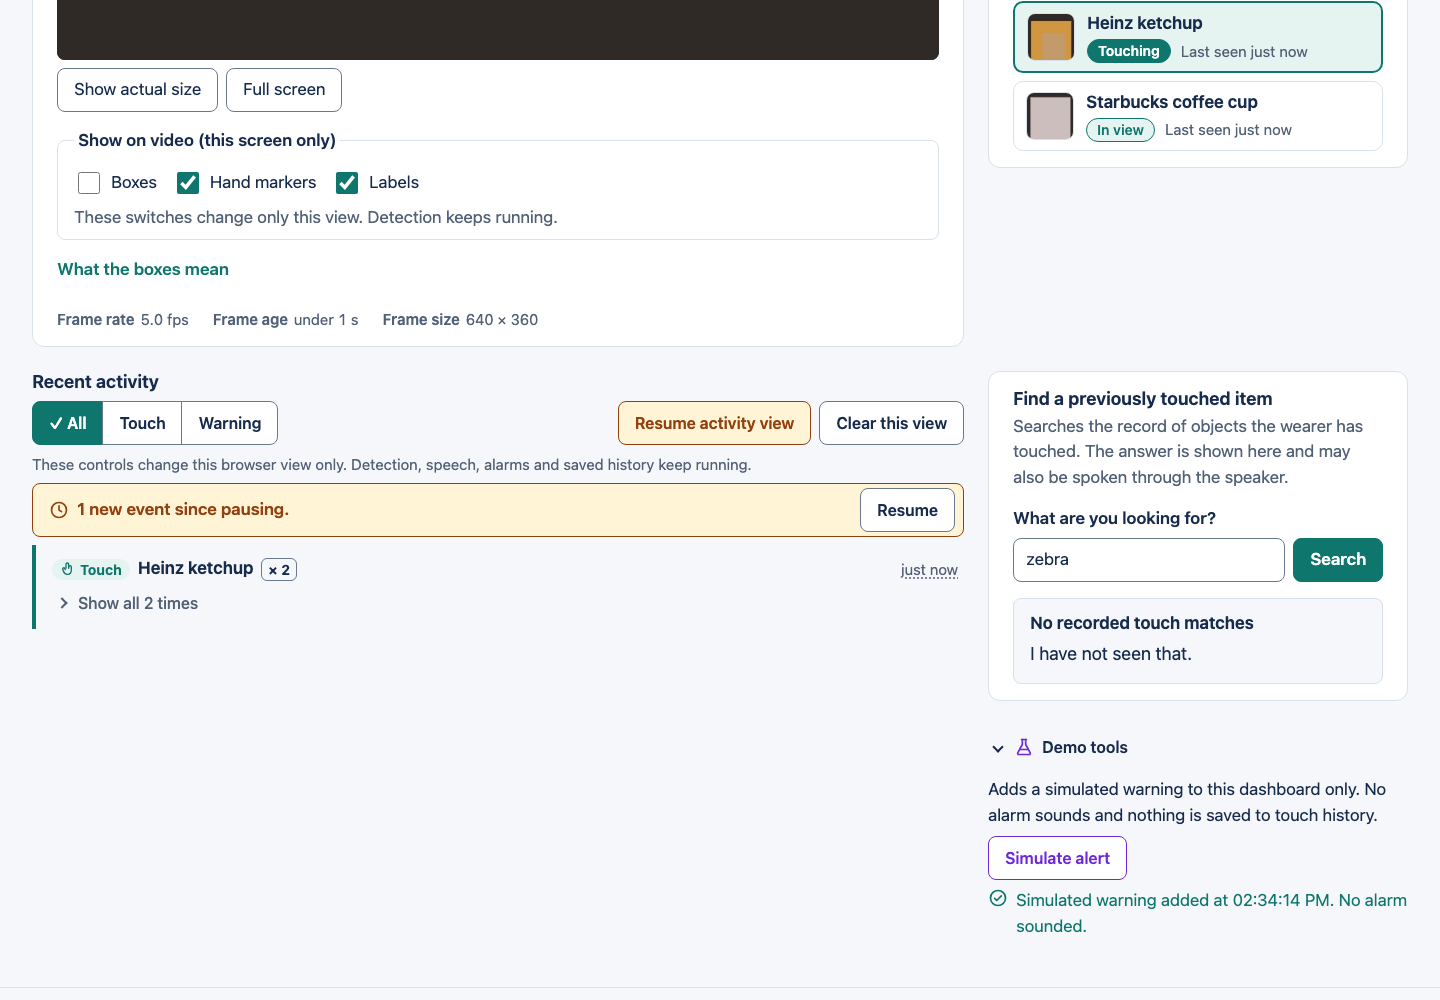
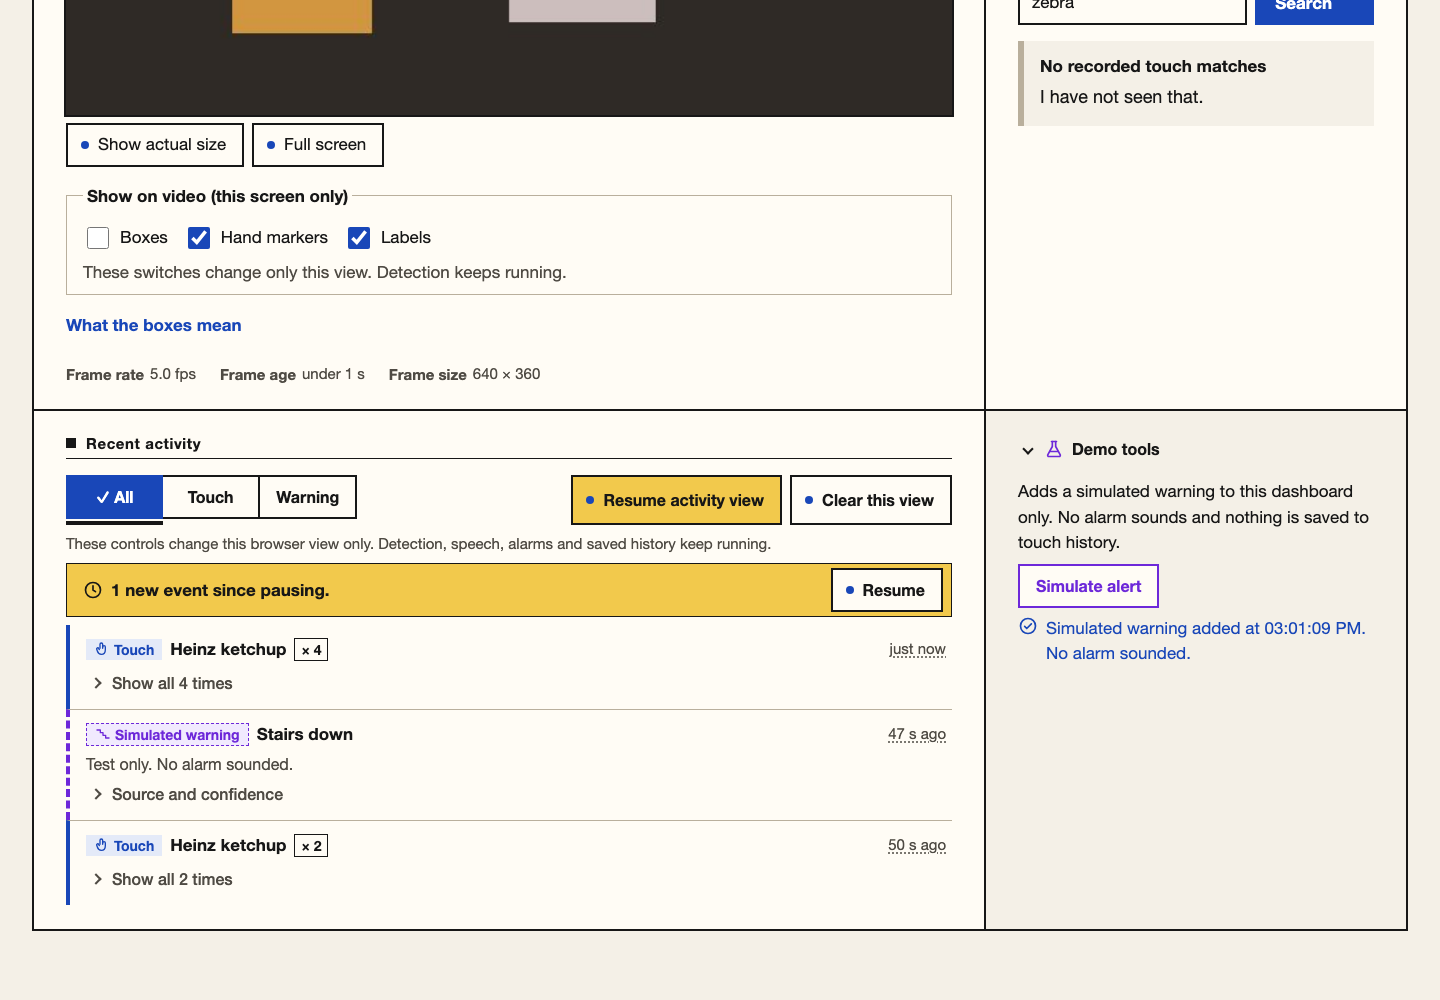
Document the Bauhaus redesign: directions, passes, inventory, prompts, verification

diff --git a/docs/dashboard-redesign/bauhaus/explorations/b-instrument.css b/docs/dashboard-redesign/bauhaus/explorations/b-instrument.css
@@ -1,0 +1,22 @@
+/* Exploration B: instrument panel with strong rails and dividers.
+   A black top rail holds identity and system status; zones are separated by
+   2px black rules instead of floating cards; each module has a ruled label bar. */
+.app-header { background: #171717; color: #FFFCF5; border-bottom: 0; }
+.app-header .app-header__explainer { color: #D9D2C3; }
+.app-header .ui-chip { background: transparent; color: #FFFCF5; border-color: #FFFCF5; }
+.app-header .ui-button { background: transparent; color: #FFFCF5; border-color: #FFFCF5; }
+.app-main { padding-top: 0; }
+.app-layout { gap: 0 !important; border-left: 2px solid #171717; border-right: 2px solid #171717; background: #FFFCF5; }
+.app-slot { border-bottom: 2px solid #171717; padding: var(--space-3); }
+@media (min-width: 64em) {
+  .app-layout { grid-template-columns: minmax(0, 1fr) var(--info-column); }
+  .app-slot--camera, .app-slot--events { border-right: 2px solid #171717; }
+}
+.app-slot--health { background: #F4F0E7; padding-block: var(--space-2); }
+.experience-card, .operations-status, .operations-history, .operations-warning { border: 0 !important; background: transparent !important; padding: 0 !important; }
+.experience-heading, .operations-heading { display: flex; align-items: center; gap: 8px; font-size: 0.875rem !important; text-transform: none; letter-spacing: 0.04em; border-bottom: 1px solid #171717; padding-bottom: 6px; margin-bottom: 12px !important; }
+.experience-heading::before, .operations-heading::before { content: ""; width: 10px; height: 10px; background: #171717; }
+.experience-touch { border-left: 8px solid #1947B8 !important; padding-left: var(--space-2) !important; }
+.experience-touch-name { font-size: clamp(2.5rem, 1.6rem + 3vw, 4rem) !important; font-weight: 800; letter-spacing: -0.03em; }
+.operations-chips { gap: 0 !important; }
+.operations-chip { border: 0 !important; border-right: 1px solid #171717 !important; background: transparent !important; min-height: 44px; }

diff --git a/docs/dashboard-redesign/bauhaus/explorations/c-geometric.css b/docs/dashboard-redesign/bauhaus/explorations/c-geometric.css
@@ -1,0 +1,14 @@
+/* Exploration C: geometric composition of hand, object and sound.
+   The touch zone is staged as circle (fingertip), square (object) and arcs
+   (sound); the camera is framed as a square instrument with a yellow circle mark. */
+.app-header { background: #FFFCF5; border-bottom: 2px solid #171717; position: relative; overflow: hidden; }
+.app-header::after { content: ""; position: absolute; right: 18%; top: -40px; width: 140px; height: 140px; border-radius: 50%; background: #F2C94C; z-index: 0; }
+.app-header__inner { position: relative; z-index: 1; }
+.experience-touch { position: relative; padding-top: 120px !important; border: 2px solid #171717 !important; }
+.experience-touch::before { content: ""; position: absolute; left: 24px; top: 24px; width: 64px; height: 64px; border-radius: 50%; background: #1947B8; box-shadow: 88px 0 0 0 #171717; }
+.experience-touch::after { content: ""; position: absolute; left: 200px; top: 16px; width: 80px; height: 80px; border-radius: 50%; border: 6px solid transparent; border-right-color: #F2C94C; box-shadow: 18px 0 0 -2px transparent; }
+.experience-camera { border: 2px solid #171717 !important; position: relative; }
+.experience-camera::after { content: ""; position: absolute; right: -14px; top: -14px; width: 28px; height: 28px; border-radius: 50%; background: #F2C94C; border: 2px solid #171717; }
+.experience-objects, .experience-find, .operations-history { border: 2px solid #171717 !important; }
+.app-layout { gap: var(--space-4) !important; }
+.experience-touch-name { font-size: clamp(2.5rem, 1.5rem + 3vw, 4rem) !important; font-weight: 800; }

diff --git a/docs/dashboard-redesign/bauhaus/explorations/a-typographic.css b/docs/dashboard-redesign/bauhaus/explorations/a-typographic.css
@@ -1,0 +1,23 @@
+/* Exploration A: asymmetric typographic composition.
+   The touched name is set as a poster headline across a wide left column; the
+   camera sits in a narrower right column; everything else is quiet text on rules. */
+.app-header { background: transparent; border-bottom: 0; }
+.app-header__inner { align-items: baseline; padding-block: var(--space-4) var(--space-2); }
+.app-brand__name { font-size: var(--text-xl); font-weight: 800; letter-spacing: -0.03em; }
+.app-header__tagline { font-size: var(--text-xl); font-weight: 300; letter-spacing: -0.02em; }
+@media (min-width: 64em) {
+  .app-layout {
+    grid-template-columns: minmax(0, 1.6fr) minmax(0, 1fr);
+    grid-template-areas:
+      "touch   camera"
+      "touch   health"
+      "warning warning"
+      "objects find"
+      "events  demo";
+    gap: var(--space-5) var(--space-6);
+  }
+}
+.experience-card, .operations-status, .operations-history { border: 0 !important; background: transparent !important; padding: 0 !important; border-top: 2px solid #171717 !important; padding-top: var(--space-2) !important; }
+.experience-touch-name { font-size: clamp(3rem, 2rem + 4.5vw, 6.5rem) !important; font-weight: 800 !important; letter-spacing: -0.04em; line-height: 0.95; }
+.experience-touch { border-top: 12px solid #1947B8 !important; }
+.operations-chip { border: 0 !important; background: transparent !important; padding-left: 0 !important; }

diff --git a/docs/dashboard-redesign/bauhaus/README.md b/docs/dashboard-redesign/bauhaus/README.md
@@ -1,0 +1,167 @@
+# Empyrean Bauhaus redesign
+
+Branch `design/bauhaus-polish`, created from the completed integration commit
+`81bef40cf3289a00cbdd4a4ca6fedf3ebda9aa41` on `design/light-dashboard-integration`
+(verified first: clean tree, 281 passed / 1 skipped, ruff clean, node 42/21/16/12,
+and the six cleanup fixes present). The layered application, the engine wiring
+and every API are unchanged; this branch changes presentation, adds one Rive
+component, artwork and three adapted interactions.
+
+## 1. Design rationale
+
+Empyrean is a working accessibility instrument, so the Bauhaus language is used
+for function: a disciplined grid, strong rules instead of floating cards, one
+typographic headline (the touched object), and colour that always means
+something.
+
+| Colour | Use | Never |
+|---|---|---|
+| Ivory `#F4F0E7` / `#FFFCF5` | paper and panels | — |
+| Near-black `#171717` | text, rules, the identity rail | — |
+| Blue `#1947B8` | action, touch, selection, focus | decoration |
+| Red `#B42318` | hazards and errors only | camera "opening" or "stale" (moved to yellow in pass 2) |
+| Yellow `#F2C94C` | held state, caution fills, always with near-black text and outline | text, or a fill without an outline (1.4:1 on ivory) |
+| Violet `#6D28D9` + dashed line | simulation only, always labelled "Simulated" | real warnings |
+
+Square corners everywhere; circles only where they mean something (status dots,
+the fingertip, the speech signal). No shadows, gradients, glass, or floating
+decoration. Measured contrast: every text pair ≥ 6.1:1 in light and ≥ 7.8:1 in
+high contrast (`tokens.css` comments, `test_token_contrast_meets_wcag`, and the
+live audit of every visible text element in `tests/ui/bauhaus/bauhaus-check.mjs`).
+
+## 2. Three compositions explored (same live state, an object being touched)
+
+Each was a stylesheet injected only into the screenshot browser over the same
+live app (`tests/ui/bauhaus/shoot.mjs --css`); the stylesheets and captures are
+in `explorations/`.
+
+| | A. Asymmetric typographic | B. Instrument panel | C. Geometric hand–object–sound |
+|---|---|---|---|
+| Files | `a-typographic.css/.png` | `b-instrument.css/.png` | `c-geometric.css/.png` |
+| Touched object found | fastest (poster headline) | good, but wrapped in a 400 px column | slowed by shapes above the name |
+| Speech status and hazards | speech clear; warnings fell below the camera and fold | warnings and status at the top | shapes compete with status |
+| Camera usefulness | squeezed into a narrow column | large, framed instrument | large |
+| Readability, keyboard | good | good, ruled modules keep reading order obvious | decorative shapes add noise |
+| Distinctive without distraction | distinctive | distinctive and calm | floating yellow circle is pure decoration |
+| Working accessibility dashboard | weak on hazards and camera | strongest | weakest |
+
+**Chosen: B's rails and ruled modules, with A's typographic weight given to a
+full-width touch band above the camera.** C's geometry survives only where it
+carries meaning: the Rive speech signal (circles and arcs = sound) and the
+idle-state illustration.
+
+## 3. Revision passes
+
+| Pass | Screenshot | Changes |
+|---|---|---|
+| 0 | `screenshots/pass0-1440.png` | first implementation of the chosen direction |
+| 1 (remove generic patterns and competing focal points) | `pass1-1440.png`, `pass1-360.png`, `pass1-hc-1440.png` | black bands at the page edges removed (the grid carried the container padding); the footer strip shrunk from a second headline to a 300 px secondary figure |
+| 2 (alignment, typography, consistency, motion, responsiveness) | `pass2-1440.png`, `pass2-360.png` | red removed from non-error camera states (opening and stale now use the yellow caution fill); status cells on an aligned grid at every width; speech column narrowed signal (56 px) on phones; status symbol kept on the same line as its words; the still image redrawn to match the Rive file's first frame so loading the animation causes no visual jump |
+
+Before and after: `screenshots/before/*` (integration branch) and
+`screenshots/after-*` (this branch).
+
+## 4. Rive
+
+| | |
+|---|---|
+| Discovered through | https://github.com/rive-app/awesome-rive (runtime list → the MIT runtime repos) |
+| Candidates inspected | `rive-wasm` examples (`message_icon`, `rating_animation`, `look`, `switch_event_example`: saturated pink gradients or figurative avatars, rejected) and `rive-android` test assets (`artboard_animations`, `basketball`, `button`, `circle_move`, `loopy`, `progress`, `blend_state`) |
[1 lines of base64/hex data omitted]
+| Licence | MIT, Copyright (c) 2020-2024 Rive (`dashboard/static/assets/rive/LICENSE-rive-android`) |
+| Modification | colours only, 42 values: background `#313131` → transparent; white → `#171717`; Google blue `#4285F4` and greens → `#1947B8`; reds `#DB4437`/`#EA4335` → `#171717` (red stays reserved for hazards); yellows → `#F2C94C`; alpha kept. Geometry and timing untouched. Tool: `tools/riv_recolor.py` (parses the whole file and refuses to write unless it ends exactly at the end of the file; field types from rive-runtime `core_registry.hpp`, MIT, commit `364421d0`, stored in `tools/riv_field_types.json`) |
[2 lines of base64/hex data omitted]
+| Component | `dashboard/static/components/speech-signal.js` |
+
+Behaviour: the still image (`speech-signal-still.svg`) renders at once; the
+runtime loads only when the browser is idle; WASM comes from `/static/vendor/rive/`
+and the runtime's CDN fallback is disabled. The animation plays **only while
+the speech telemetry says `status: "speaking"` with `mode: "real"`** and the
+dashboard is connected, so printed (fake) or log-only speech never animates it.
+It pauses offscreen and when the page is hidden, is never loaded under reduced
+motion, falls back to the still on any runtime or file error, and is disposed on
+unmount. It is `aria-hidden`; the speech status text beside it is always
+present and is updated in the same render, never after an animation.
+
+## 5. Generated images: unresolved dependency
+
+**No ChatGPT/OpenAI image-generation access was available in this session**: no
+image tool, no `OPENAI_API_KEY` in the environment or `.env`, and no ChatGPT or
+OpenAI CLI. No image was generated and none is claimed. Instead the three slots
+ship with **hand-authored SVGs** (marked "Hand-authored (not generated)" in each
+file) in the same vocabulary, so the page is complete and a generated image can
+replace a file without code changes.
+
+Shared style line for every prompt: *Original Bauhaus-inspired flat geometric
+illustration for an accessibility prototype. Palette only: warm ivory #F4F0E7
+background (or transparent), near-black #171717, deep blue #1947B8, yellow
+#F2C94C. Circles, squares, straight lines, one restrained diagonal. Flat colour,
+no gradients, no shadows, no texture, no text, no letters, no numbers, no logos,
+no people's faces, no photographic elements. Strong asymmetric composition on a
+grid, generous empty space.*
+
+| Slot (file to replace) | Placement and alt | Size, format | Prompt (after the style line) |
+|---|---|---|---|
+| `assets/illustrations/touch-idle.svg` → `touch-idle.png` | touch band when nothing is touched; decorative (`alt=""`), the sentence "Touch an object to hear its name" carries the meaning | 960 × 400, PNG with transparent background | *A blue circle (a fingertip) touching the corner of a solid near-black square (an object); three concentric arcs to the right, alternating yellow and black, suggesting sound; a thin black baseline; one small outlined triangle.* |
+| `assets/illustrations/history-empty.svg` → `history-empty.png` | empty Recent activity; decorative, the empty-state sentence carries the meaning | 640 × 320, PNG transparent | *An empty record card: a black outlined rectangle containing three short dashed grey lines, a small yellow circle with a black outline overlapping its top-right corner, a thin black baseline. Quiet and sparse.* |
+| `assets/illustrations/how-it-works.svg` → `how-it-works.png` | footer strip above three HTML steps ("The camera sees…", "A fingertip lands…", "The speaker says…"); decorative | 1200 × 240, PNG transparent | *Three geometric glyphs in a row joined by black lines on a baseline: a black outlined square with a blue circle inside (a camera), a black square with a blue circle at its lower corner (a touch), three concentric yellow and black arcs (sound).* |
+
+Rules for any future generated image: keep it out of the camera feed, object
+thumbnails and history; never let it resemble a detected object or a real
+observation; no embedded text (labels stay HTML); optimise (≤ 120 KB) and record
+the prompt, date and tool here.
+
+## 6. 21st.dev interactions (adapted to native CSS, no framework added)
+
+| Interaction | Reference (inspected) | Licence | Adaptation | Where |
+|---|---|---|---|---|
+| Circle grows to fill on hover/focus | https://21st.dev/@dillionverma/components/interactive-hover-button (Magic UI; source `magicuidesign/magicui` `apps/www/registry/magicui/interactive-hover-button.tsx`) | MIT (21st.dev listing and GitHub repo) | A small blue circle at the start of secondary buttons scales to fill with the light blue tint. The original swaps the label for a white one mid-transition; here the text never changes colour, so every frame keeps ≥ 15:1 contrast. Disabled buttons do not react | camera controls, Pause / Clear / Show cleared activity |
+| Label nudge with arrow, then a loading state | https://21st.dev/@cnippet-dev/components/cnippet-button/sliding (bundle `cdn.21st.dev/larsen66/cnippet-button/sliding/bundle.1783605523635.html`) | MIT (21st.dev listing) | On hover/focus the "Search" label moves 4 px left and an arrow slides in; while a search runs (`data-loading`) a still square replaces the arrow. Arrow space is reserved, so no layout shift; no continuous motion; the accessible name stays "Search" | last-touch search button |
+| Segmented control | https://21st.dev/@alexisroe/components/segmented | MIT (21st.dev listing) | Equal square segments in one ruled rail with the selected one filled (as in the original). Added: a black bar under the rail slides to the selected segment. Fill and label change at once so no text is ever half-covered; only the bar moves. Pure CSS with `:has()` | All / Touch / Warning filters |
+
+Rejected: `@clevision/components/buttons/button-loading` (no licence stated);
+`@anubra266` segment and tab components (no licence stated); Adobe
+`css-segmentedcontrol` (Apache-2.0, fine, but the MIT one fitted better).
+All motion is 120–180 ms, transform/opacity only, and switched off under reduced
+motion by `base.css`.
+
+## 7. Asset, source and licence inventory
+
+| Item | Path | Source | Licence | Notes |
+|---|---|---|---|---|
+| Rive runtime | `dashboard/static/vendor/rive/rive.js`, `rive.wasm` | npm `@rive-app/canvas@2.47.1` | MIT | hashes in section 4 |
+| Speech signal | `dashboard/static/assets/rive/speech_signal.riv` | rive-android `progress.riv` | MIT | recoloured |
+| Speech signal still | `assets/illustrations/speech-signal-still.svg` | hand-authored for Empyrean | project | matches frame 0 |
+| Touch idle | `assets/illustrations/touch-idle.svg` | hand-authored (not generated) | project | slot for a generated PNG |
+| Empty history | `assets/illustrations/history-empty.svg` | hand-authored (not generated) | project | slot for a generated PNG |
+| How it works | `assets/illustrations/how-it-works.svg` | hand-authored (not generated) | project | slot for a generated PNG |
+| Field-type table | `tools/riv_field_types.json` | generated from rive-runtime `core_registry.hpp` @ `364421d0` | MIT | design tooling only |
+| Interaction ideas | CSS in `experience.css`, `operations.css` | 21st.dev components in section 6 | MIT | re-implemented, no code copied |
+
+## 8. Verification
+
+| Check | Result |
+|---|---|
+| `pytest -q` (repo root) | see handoff for the final count (all pass except the live Tiger Data skip) |
+| `ruff check .` | clean |
+| `node --test` agent1 / agent2 / agent3 / agent4 / bauhaus | 42 / 21 / 16 / 12 / 8 |
+| `tests/ui/agent4/integrated-check.mjs` on this build: normal / hazard / unavailable / disconnect | 49/49, 8/8, 4/4, 6/6 (three checks now read the shell's tokens instead of the old palette literals) |
+| `tests/ui/bauhaus/bauhaus-check.mjs` | 25/25: Rive loads after content, plays only for real speaking, stops on completion, pauses offscreen and when hidden, local-only requests, disposed on destroy; fake speech never animates; reduced motion never loads it; a failed runtime keeps the still; the three interactions behave; every visible text element meets AA in both themes |
+| Rive performance with the MJPEG stream and `/ws` updates running | frame time p95 16.7 ms over 3 s, 0 long tasks |
+
+States exercised live: touching, holding (scene fake), released and retouch
+(clip cycle); speech queued, speaking, completed and interrupted (fake audio and
+the scripted hazard) and unavailable (`--only dashboard`); "failed" only in the
+existing unit tests. Active real warning followed by a simulation; camera
+opening, live, offline, disconnect and recovery (stale frames only in unit
+tests). Search found, not found, timeout with hanging POST and GET, unavailable
+storage (pytest e2e) and overlapping searches (unit and pytest). Activity
+populated and cleared-empty. Light and high contrast; keyboard and focus;
+reduced motion; 360, 768, 1440 px and 720 CSS px at 2× (real browser zoom not
+used).
+
+**Not verified:** physical camera, audible speech or alarm, Grok, Tiger Data,
+the Rive animation driven by a real speech engine (its motion was exercised
+with `tests/ui/bauhaus/launch_with_speech.py`, a test harness that replays
+`mode: "real"` telemetry without speaking), screen readers, Firefox and Safari.

diff --git a/DEVLOG.md b/DEVLOG.md
@@ -72,6 +72,12 @@ The approved stack, repeated here so every log reader has it. Changes go through
 
 ## Entries
 
+### 2026-11-14 16:30, Dashboard Bauhaus redesign (design/bauhaus-polish), Claude Code
+**Changed:** Branch `design/bauhaus-polish` from integration commit `81bef40` (verified complete first). New Bauhaus token set (ivory, near-black, blue action, red only for hazards and errors, yellow fills with black outline, dashed violet simulation, square corners); instrument-panel composition with a full-width touch band; a Rive speech signal (`components/speech-signal.js`, recoloured MIT `progress.riv`, vendored `@rive-app/canvas@2.47.1`) that moves only for real speaking telemetry; hand-authored SVG artwork in three slots; three interactions adapted from MIT 21st.dev components in plain CSS. Engine, APIs and contracts unchanged.
+**Tested:** full `pytest`, `ruff`, node tests (agent1–4 and bauhaus), the integrated live checks (normal 49/49, hazard 8/8, unavailable 4/4, disconnect 6/6) and `tests/ui/bauhaus/bauhaus-check.mjs` 25/25 (Rive behaviour and fallbacks, local-only requests, interactions, AA contrast of all visible text in both themes, frame time p95 16.7 ms). No camera, speaker, Grok or Tiger Data.
+**Decisions:** direction B (instrument panel) with A's typographic touch band, chosen over A and C (`docs/dashboard-redesign/bauhaus/README.md`). The speech signal never animates for fake or log-only audio.
+**Teammates need to know:** ChatGPT image generation was not available; exact prompts and slots are in the Bauhaus README. `tools/riv_recolor.py` is design tooling only.
+
 ### 2026-11-14 15:30, Dashboard redesign integration fixes (Agent 4), Claude Code
 **Changed:** On `design/light-dashboard-integration`: connection changes are announced only by the shell (operations and camera duplicates removed); the operations feature now drives `roots.warning.dataset.emphasis` (`urgent`, `simulated`, none; cleared on cleanup); both feature stylesheets use the shell's token names and `data-theme="high-contrast"` (before this they silently used light fallbacks); last-touch search normalises request ids, has one overall 10 s deadline that aborts hanging requests, ignores late answers, and shows recorded neighbours; the API client's timeout now covers reading the body; storage says "Touch history is unavailable right now." on an outage ("I have not seen that." only for a real miss) and `LastSeenResult.answer` is the spoken sentence; `app/` starts fake hazard and vision publishers after every module subscribed, so the first scripted hazard reaches audio; the fake scene uses current timestamps. SPEC 4.10 and 5 updated for the spoken outage sentence.
 **Tested:** full `pytest` and `ruff` (counts in `docs/dashboard-redesign/agent-4-handoff.md`); `node --test` for all four agents; live Chromium checks of the real shell and features: normal 49/49, hazard 8/8, unavailable 4/4, disconnect/reconnect 6/6. Each new regression test was also run against the old code to confirm it fails there. No camera, speaker, Grok or Tiger Data.

diff --git a/docs/dashboard-redesign/design-system.md b/docs/dashboard-redesign/design-system.md
@@ -1,5 +1,10 @@
 # Empyrean dashboard design system
 
+> **Superseded palette (design/bauhaus-polish, 2026-11-14).** The token *names*, layering, mount
+> contract and announcement policy below still apply. The colours, geometry and composition were
+> replaced by the Bauhaus system: see [bauhaus/README.md](bauhaus/README.md) and `styles/tokens.css`.
+
+
 Owner: Agent 1 (`design/light-foundation`). Agent 4 reconciles this document with the integrated API.
 
 The dashboard serves a helper, operator, developer or demonstrator, and may be read by a low-vision wearer. Its job is to make one interaction obvious: **touch an object, hear its name**. Everything else on the page explains or supports that.
